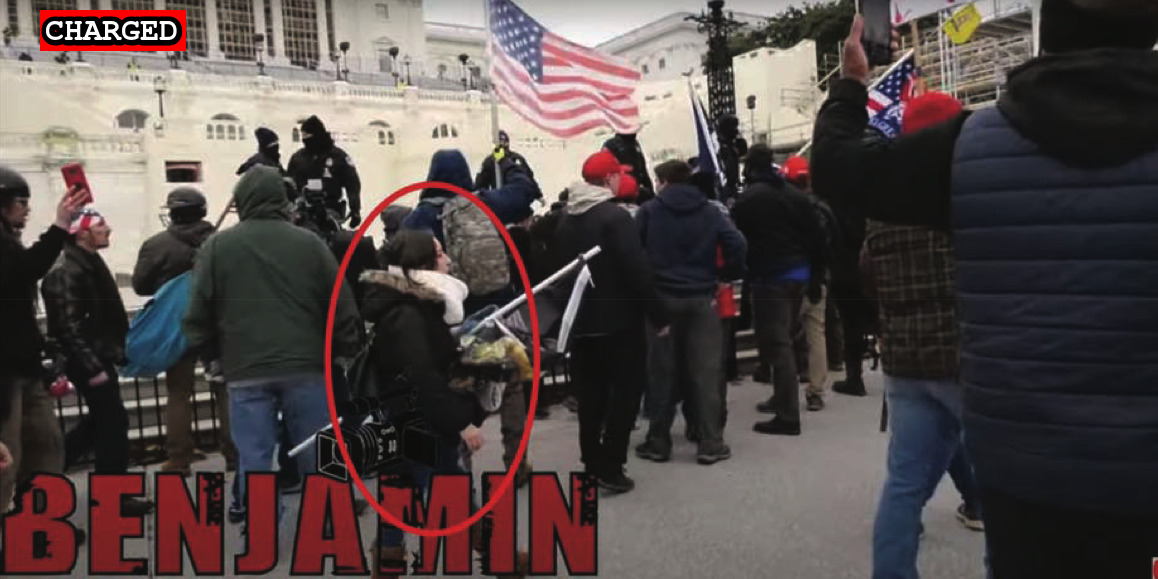
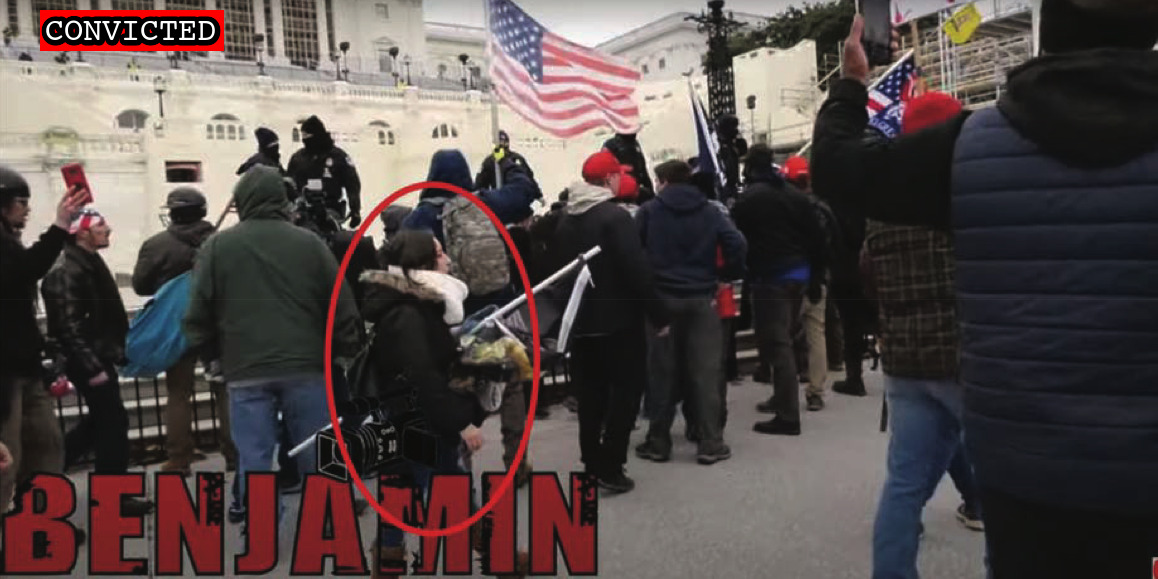
Add plea

Changed region(s): [[0.0311, 0.0, 0.2176, 0.0933]]

diff --git a/docs/_suspects/raechel-genco.md b/docs/_suspects/raechel-genco.md
@@ -4,15 +4,17 @@ lastName: Genco
 hashtag: WhiteHoodieGF
 aka:
 residence: Pennsylvania
-status: Charged
+status: Convicted
 date: 2021-02-12
 charged: 2021-02-12
 indicted:
-convicted:
+convicted: 2022-06-29
+acquitted:
 sentenced:
 dismissed:
 deceased:
-plea_hearing:
+plea_hearing: 2022-06-29
+trial_date:
 sentencing:
 age: 38
 occupation:
@@ -34,8 +36,13 @@ published: true
 caseNumber: 1:21-mj-231
 videos:
 charges:
+  - code: 18 USC § 1752(a)(2)
+    title: Disorderly and disruptive conduct in a restricted building or grounds
+    url: https://www.law.cornell.edu/uscode/text/18/1752
+    felony: false
 sentence:
 ---
+
 - [News Report](http://levittownnow.com/2021/02/25/bristol-twp-woman-charged-as-part-of-capitol-insurrection-investigation/)
 - [Complaint](https://extremism.gwu.edu/sites/g/files/zaxdzs2191/f/Raechel%20Genco%20Criminal%20Complaint.pdf)
 - [Statement of Facts](https://www.justice.gov/usao-dc/case-multi-defendant/file/1371391/download)
